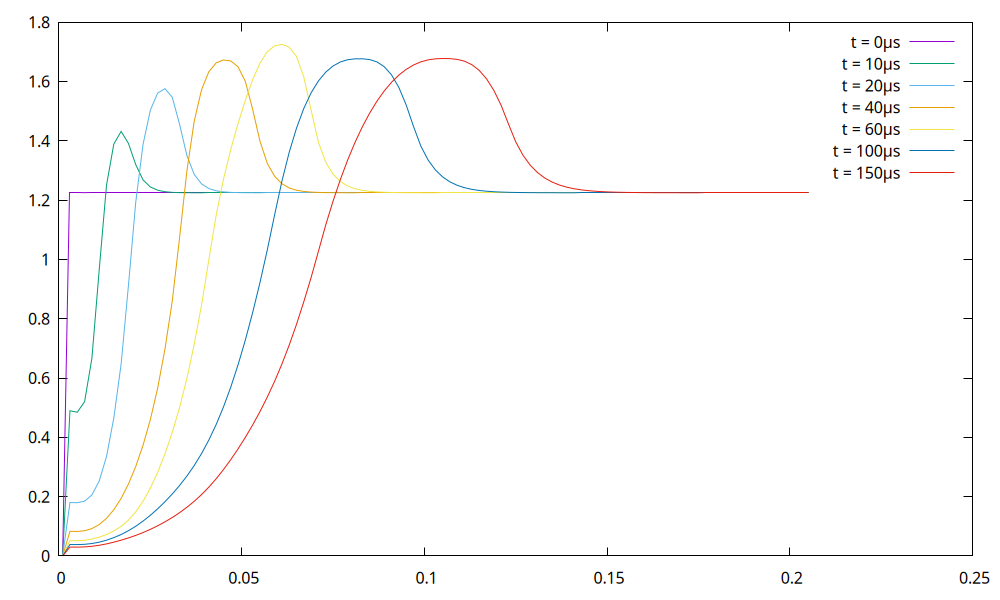
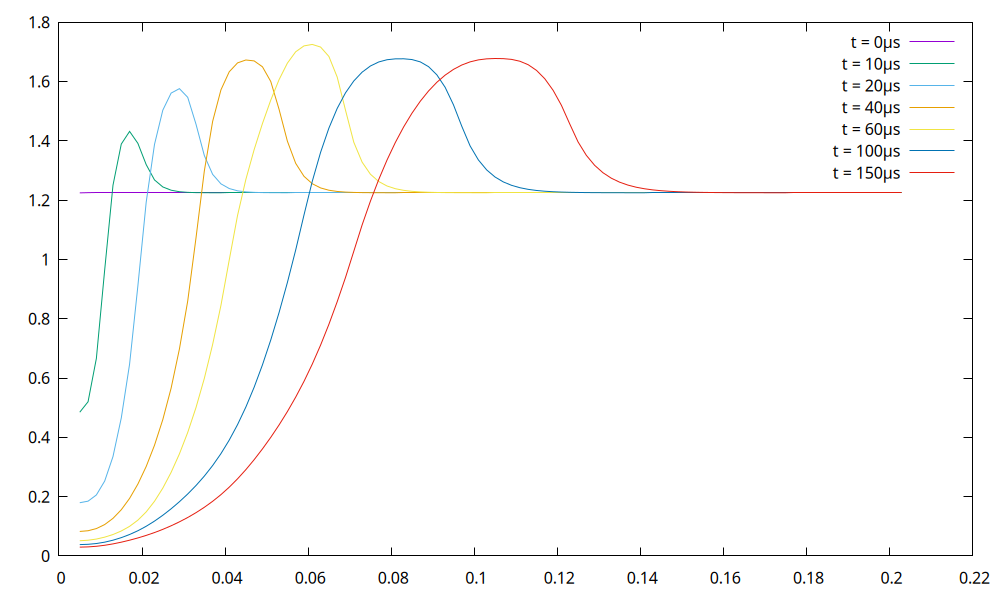
removed ghost cells from plots

diff --git a/C++_scripts/SLIC_w_magnetic_potential.cpp b/C++_scripts/SLIC_w_magnetic_potential.cpp
@@ -651,7 +651,7 @@ void SaveUnwrappedData(const std::vector<std::array<double, 3>>& u, double x0, d
     std::string filename = "wrapped_" + std::to_string(index) + ".dat";
     std::ofstream out(filename);
     // std::ofstream out("wrapped.dat");
-    for (int i = 0; i <= nCells+3; ++i) {
+    for (int i = 2; i <= nCells+1; ++i) {
         double r = x0 + (i+0.5) * dx;
         double rho = results[i][0]; // Use density (or change to results[i][1] for momentum, etc.)
 
